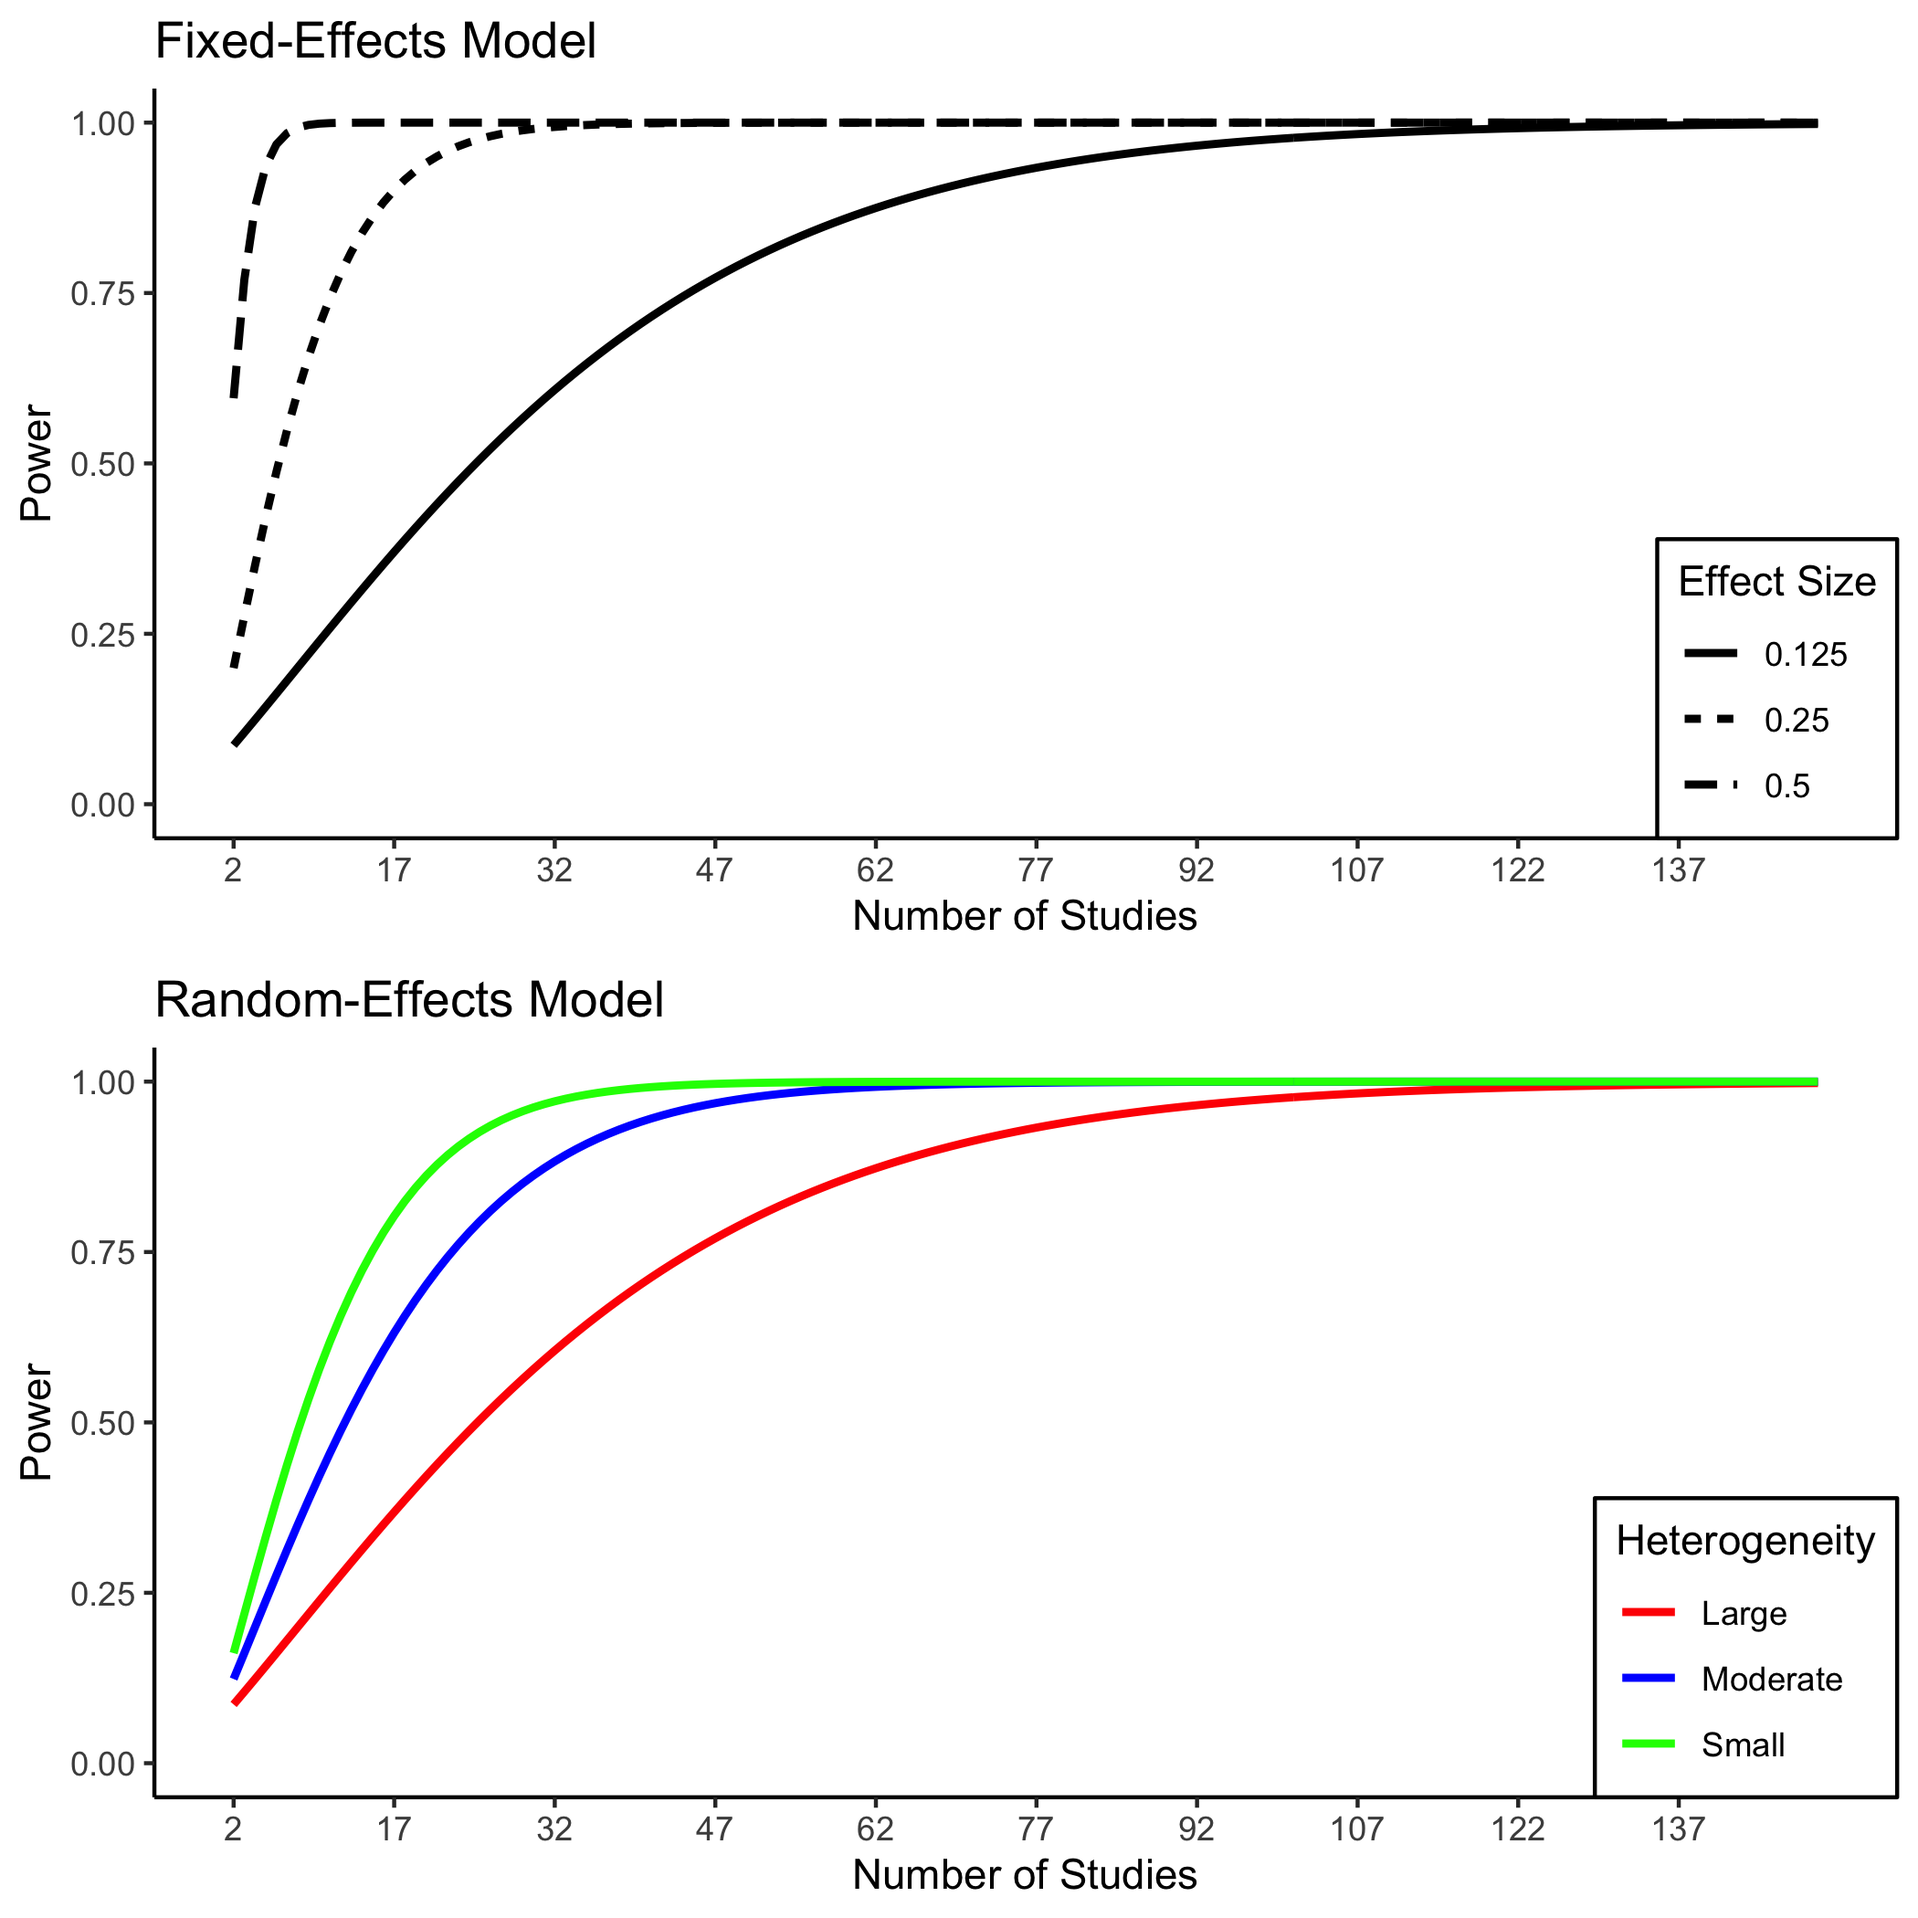
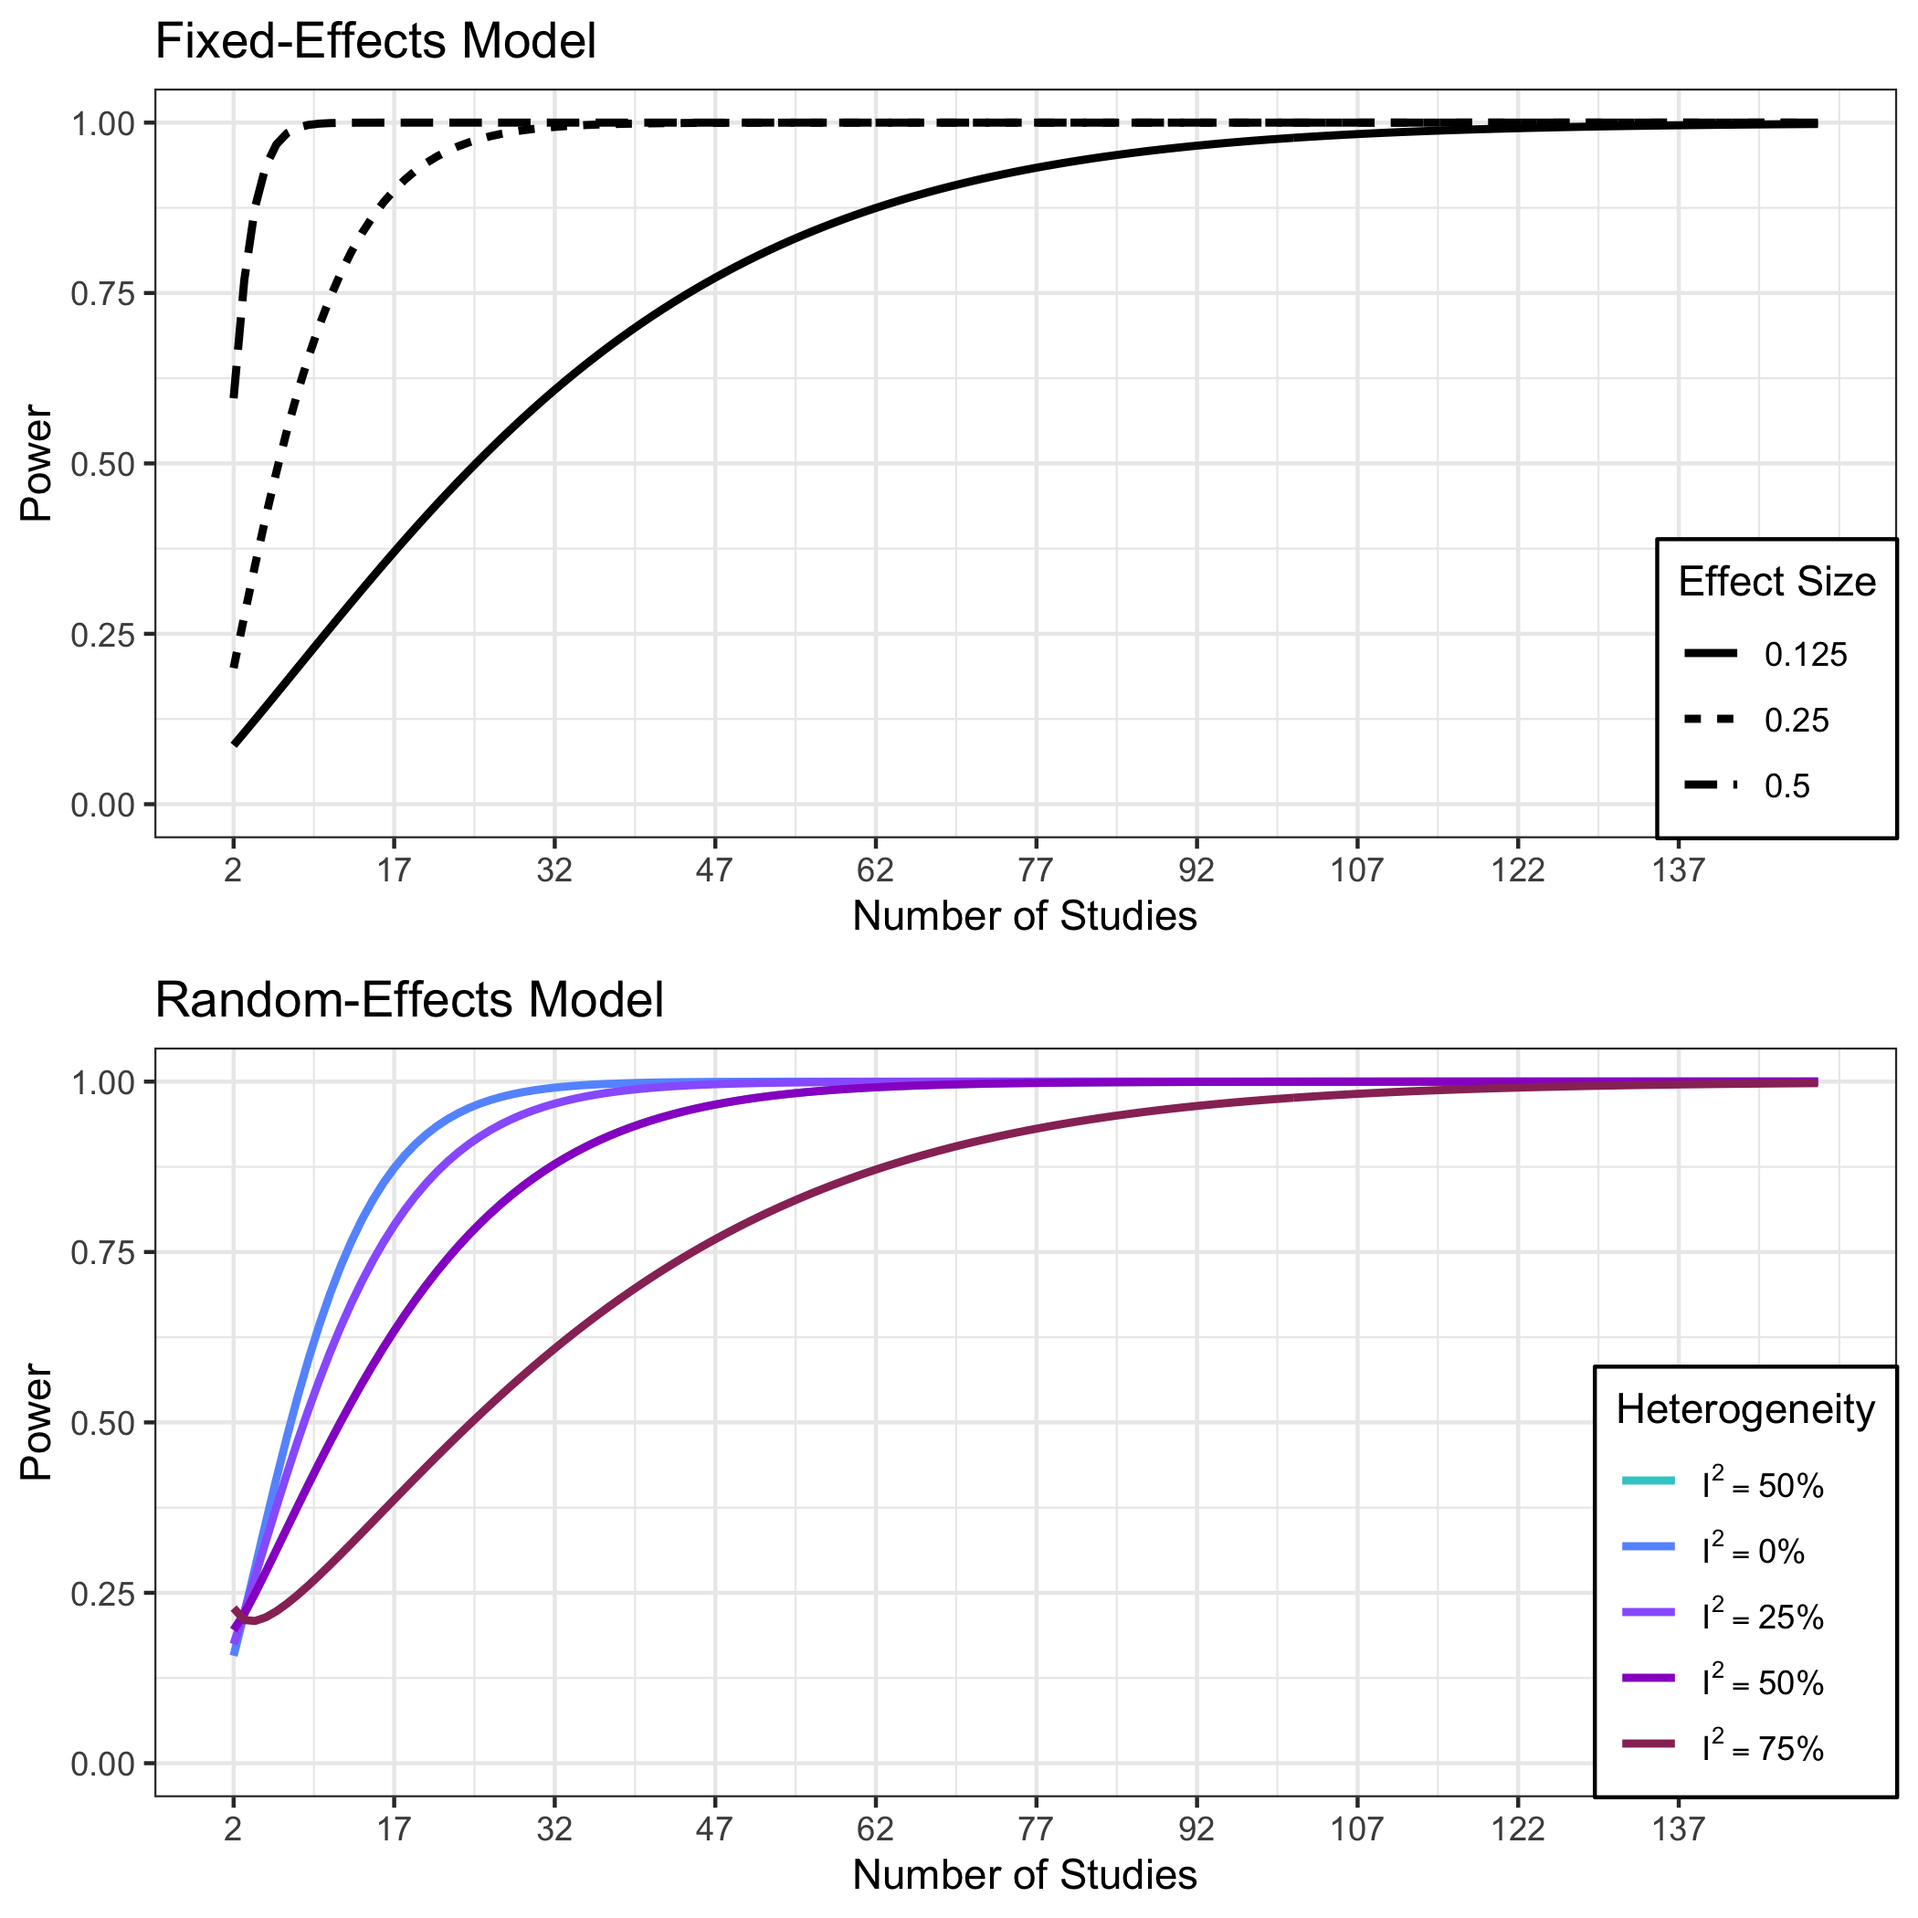
update version and description

diff --git a/README.md b/README.md
@@ -54,27 +54,22 @@ library(metapower)
 my_power <- mpower(effect_size = .25, sample_size = 20, k = 30, es_type = "d")
 print(my_power)
 #> 
-#>  Estimated Meta-Analytic Power 
+#>  Power Analysis for Meta-analysis 
 #> 
 #>  Expected Effect Size:              0.25 
 #>  Expected Sample Size (per group):  20 
-#>  Expected Number of Studies;        30 
-#>  Expected between-study sd:         
+#>  Expected Number of Studies:        30 
+#>  Expected Between-study SD:         
 #> 
-#>  Estimated Power: Main effect 
+#>  Estimated Power: Mean Effect Size 
 #> 
-#>  Fixed-Effects Model                             0.990698 
-#>  Random-Effects Model (Low Heterogenity):        0.962092 
-#>  Random-Effects Model (Moderate Heterogeneity):  0.8621495 
-#>  Random-Effects Model (Large Heterogeneity):     0.57799 
-#> 
-#>  Estimated Power: Test of Homogenity 
-#> 
-#>  Fixed-Efects Model                              NA 
-#>  Random-Effects Model (Low Heterogeneity):       0.2926194 
-#>  Random-Effects Model (Moderate Heterogeneity):  0.9782353 
-#>  Random-Effects Model (Large Heterogeneity):     1
-power_plot(my_power)
+#>  Fixed-Effects Model                0.990698 
+#>  Random-Effects Model (i2 = 50% ):  0.8580983
+#>  Random-Effects Model (i2 =  0% ):  0.9871537 
+#>  Random-Effects Model (i2 = 25% ):  0.9578004 
+#>  Random-Effects Model (i2 = 50% ):  0.8580983 
+#>  Random-Effects Model (i2 = 75% ):  0.5820965
+plot_mpower(my_power)
 ```
 
 <img src="man/figures/README-unnamed-chunk-3-1.png" width="100%" />
@@ -84,13 +79,14 @@ See Vignette “Using metapower” for more information
 ## References
 
 All mathematical calculations are derived from Hedges & Pigott (2004),
-Bornstein, Hedges, Higgins, & Rothstein (2009), and Pigott (2012).
+Bornstein, Hedges, Higgins, & Rothstein (2009),Pigott (2012), Jackson &
+Turner (2017).
 
 <div id="refs">
 
 <div id="ref-bornstein2009">
 
-Bornstein, M., Hedges, L. V., Higgins, J., & Rothstein, H. (2009).
+Bornstein, M., Hedges, L. V., Higgins, J. P., & Rothstein, H. R. (2009).
 *Introduction to meta-analysis*. Hoboken, NJ: Wiley.
 
 </div>
@@ -100,6 +96,14 @@ Bornstein, M., Hedges, L. V., Higgins, J., & Rothstein, H. (2009).
 Hedges, L. V., & Pigott, T. D. (2004). The power of statistical tests
 for moderators in meta-analysis. *Psychological Methods*, *9*(4),
 426–445. <https://doi.org/10.1037/1082-989x.9.4.426>
+
+</div>
+
+<div id="ref-jackson2017">
+
+Jackson, D., & Turner, R. (2017). Power analysis for random‐effects
+meta‐analysis. *Research Synthesis Methods*, *8*(3), 290–302.
+<https://doi.org/10.1002/jrsm.1240>
 
 </div>
 
